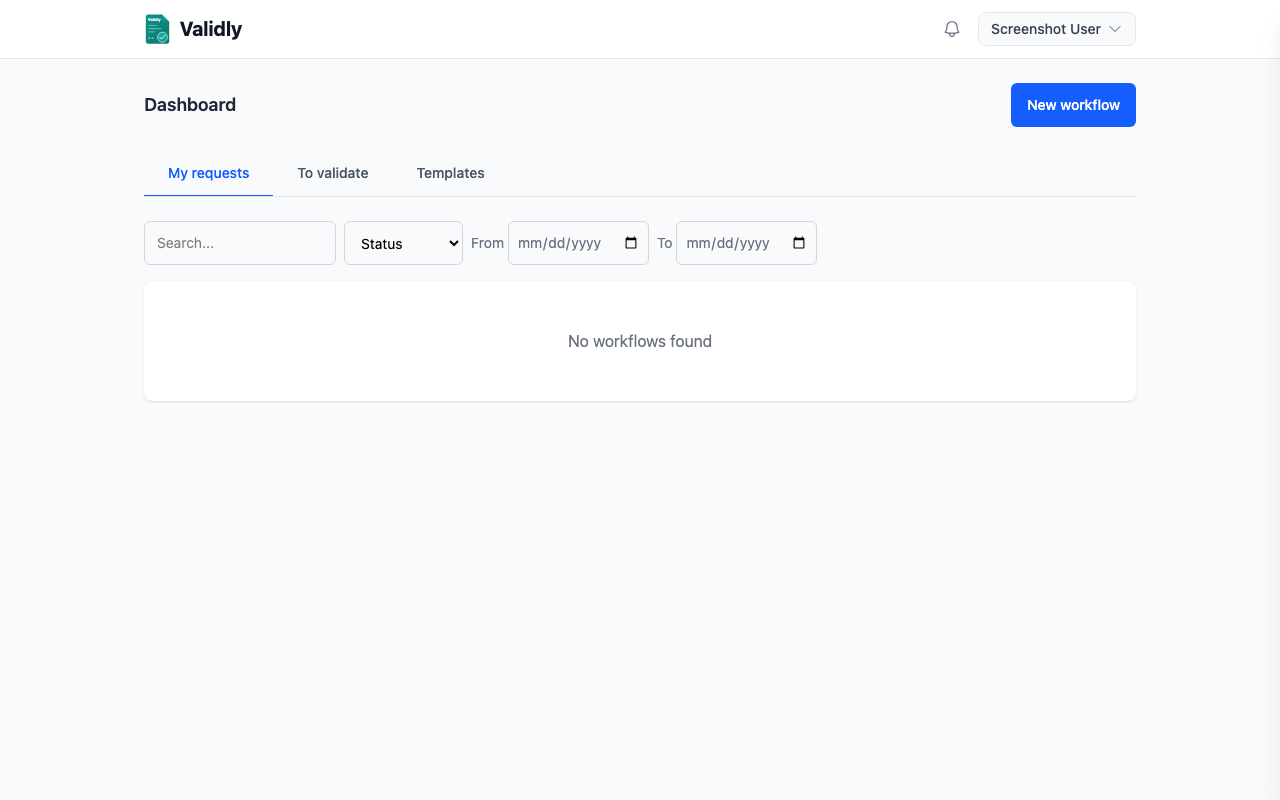
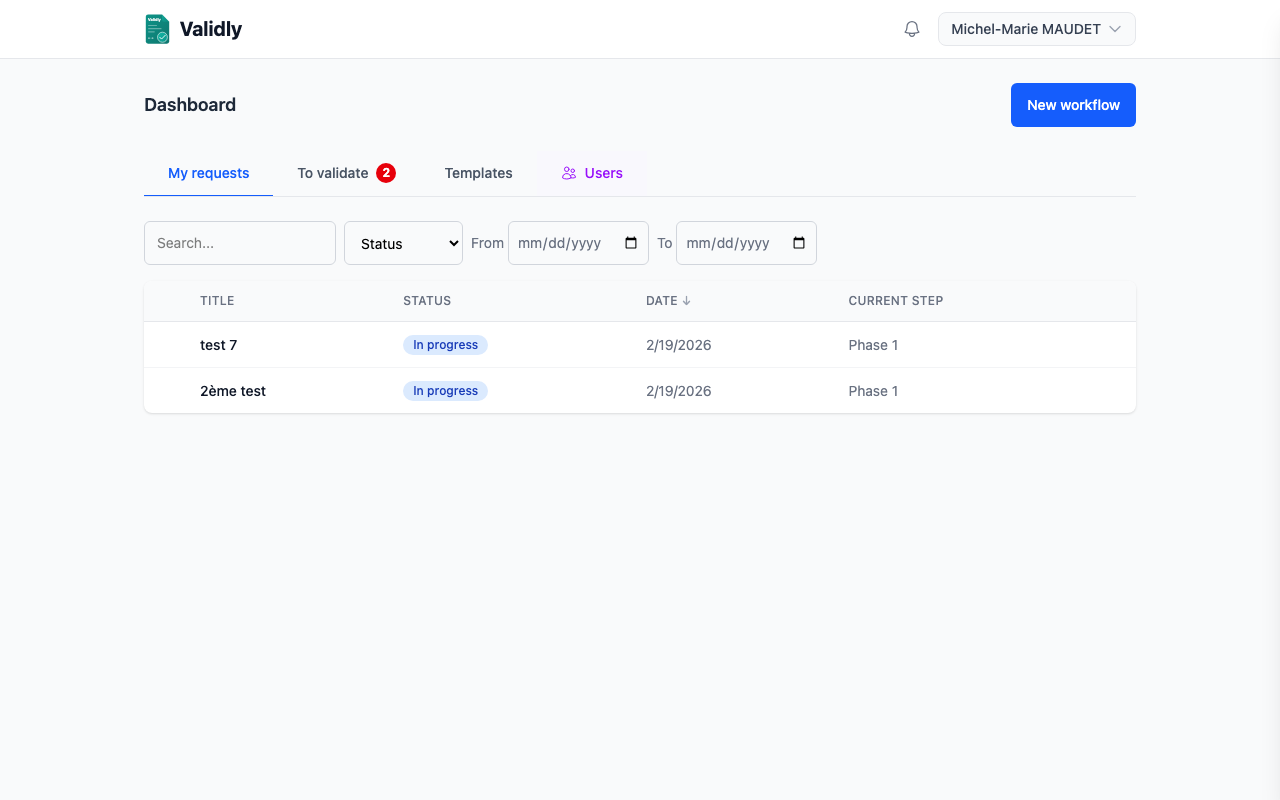
docs: update screenshots with real workflow data
Recapture dashboard with populated workflow list and add workflow
detail view showing progression, validation steps, and documents.

diff --git a/README.md b/README.md
@@ -63,8 +63,8 @@ Validly is an open-source, self-hosted document validation workflow engine. It a
 </p>
 
 <p align="center">
-  <img src="docs/screenshots/workflow-create.png" alt="Workflow creation wizard" width="720" /><br/>
-  <em>Workflow creation — step-by-step wizard</em>
+  <img src="docs/screenshots/workflow-detail.png" alt="Workflow detail — phases, steps, and documents" width="720" /><br/>
+  <em>Workflow detail — progression, validation steps, and attached documents</em>
 </p>
 
 ## Getting Started
